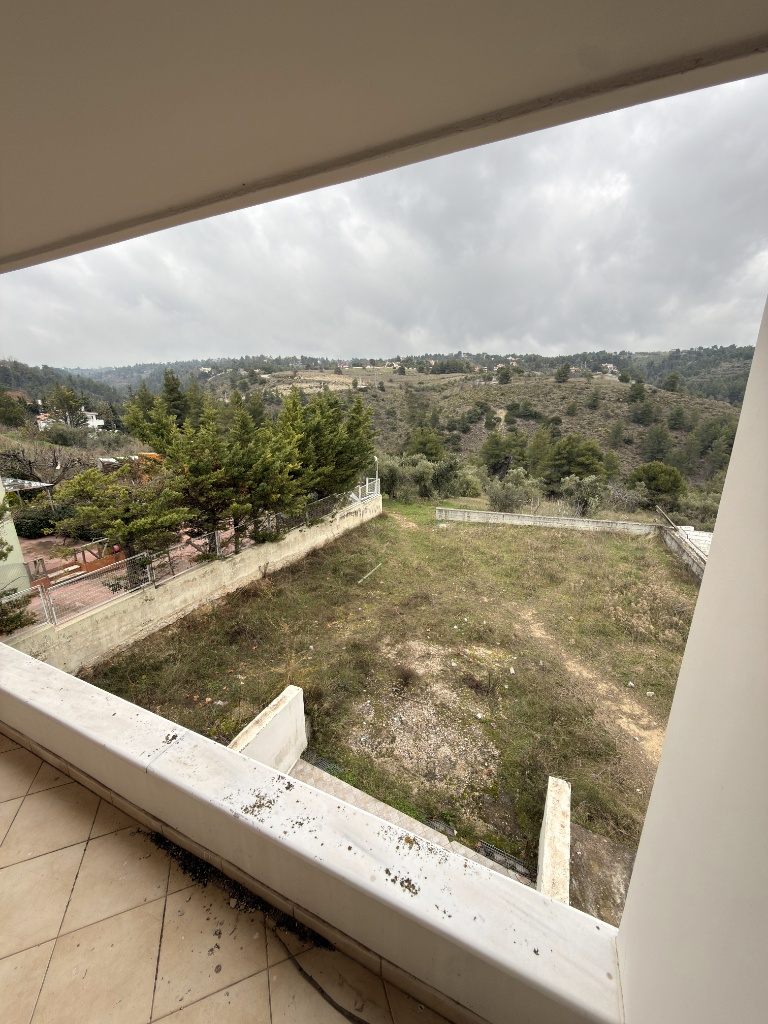
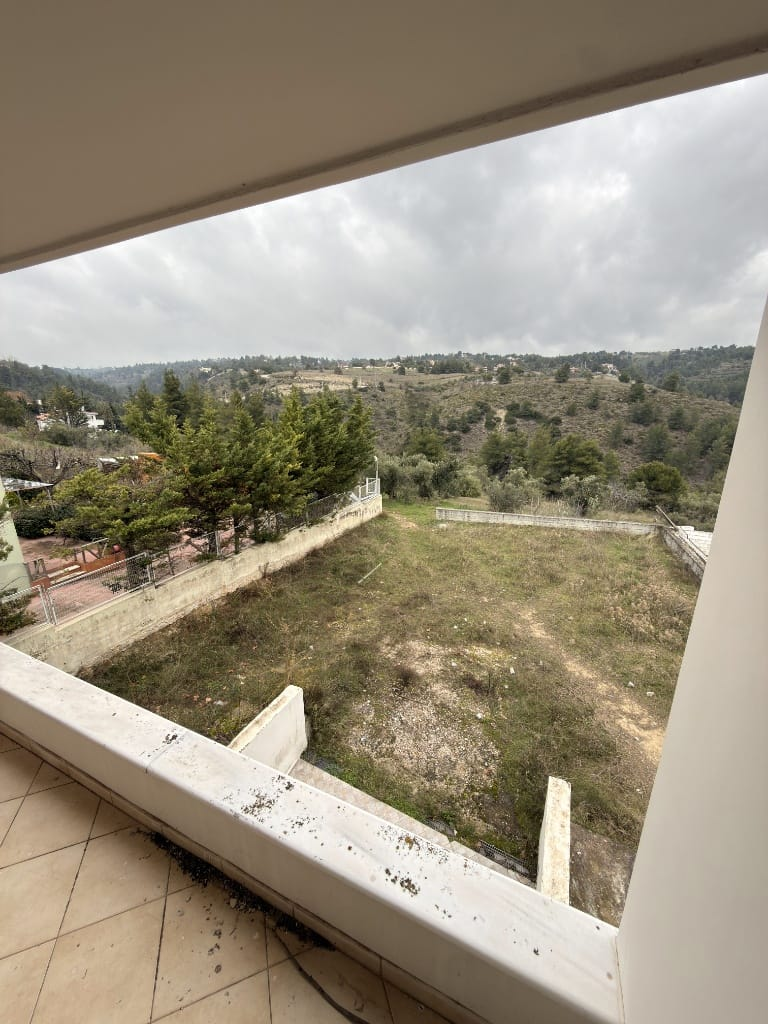
perf: optimize image loading with sizes attributes and lazy loading

Changed region(s): [[0.5938, 0.75, 0.625, 0.7812]]

diff --git a/components/listing/BeforeAfterSection.tsx b/components/listing/BeforeAfterSection.tsx
@@ -1,12 +1,10 @@
 "use client"
 
-import { useState } from "react"
 import { motion } from "framer-motion"
 import Image from "next/image"
 import { Play } from "lucide-react"
 import { Button } from "@/components/ui/button"
 import { BeforeAfterSlider } from "@/components/kapandriti/before-after/BeforeAfterSlider"
-import { PhoneCompareModal } from "@/components/kapandriti/before-after/PhoneCompareModal"
 
 type CompareItem = {
     id: string
@@ -21,13 +19,6 @@ type BeforeAfterSectionProps = {
 }
 
 export function BeforeAfterSection({ compareItems }: BeforeAfterSectionProps) {
-    const [isModalOpen, setIsModalOpen] = useState(false)
-    const [activeItemIndex, setActiveItemIndex] = useState(0)
-
-    const handleOpenModal = (index: number) => {
-        setActiveItemIndex(index)
-        setIsModalOpen(true)
-    }
 
     // If no items, return null or empty
     if (!compareItems || compareItems.length === 0) return null
@@ -81,8 +72,7 @@ export function BeforeAfterSection({ compareItems }: BeforeAfterSectionProps) {
                             className="flex flex-col gap-4 group"
                         >
                             <div
-                                className="relative w-full aspect-[9/16] bg-zinc-900 rounded-[2rem] overflow-hidden border border-zinc-800 shadow-2xl transition-all duration-500 group-hover:border-zinc-600 group-hover:shadow-zinc-900/50 cursor-pointer"
-                                onClick={() => handleOpenModal(index)}
+                                className="relative w-full aspect-[9/16] bg-zinc-900 rounded-[2rem] overflow-hidden border border-zinc-800 shadow-2xl transition-all duration-500 group-hover:border-zinc-600 group-hover:shadow-zinc-900/50"
                             >
                                 <BeforeAfterSlider
                                     beforeSrc={item.beforeSrc}
@@ -105,27 +95,12 @@ export function BeforeAfterSection({ compareItems }: BeforeAfterSectionProps) {
                                 <div className="hidden lg:block absolute inset-x-0 bottom-0 p-6 bg-gradient-to-t from-black/80 via-black/40 to-transparent pointer-events-none">
                                     <h3 className="text-white text-xl font-bold text-center drop-shadow-md">{item.title}</h3>
                                 </div>
-
-                                {/* Hover overlay hints (Desktop only) */}
-                                <div className="hidden lg:flex absolute inset-0 bg-black/40 opacity-0 group-hover:opacity-100 transition-opacity items-center justify-center pointer-events-none">
-                                    <div className="bg-black/60 backdrop-blur-md px-4 py-2 rounded-full border border-white/20 text-white text-sm font-medium">
-                                        Προβολή
-                                    </div>
-                                </div>
                             </div>
                         </motion.div>
                     ))}
                 </div>
 
             </div>
-
-            <PhoneCompareModal
-                isOpen={isModalOpen}
-                onClose={() => setIsModalOpen(false)}
-                items={compareItems}
-                activeIndex={activeItemIndex}
-                onIndexChange={setActiveItemIndex}
-            />
         </section>
     )
 }

diff --git a/app/kapandriti-realestate/page.tsx b/app/kapandriti-realestate/page.tsx
@@ -28,25 +28,25 @@ const COMPARE_ITEMS = [
     id: "yard",
     title: "Πίσω Αυλή",
     beforeSrc: "/kapandriti/before/1.jpg",
-    afterSrc: "/kapandriti/after/1.png",
+    afterSrc: "/kapandriti/after/1.jpg",
   },
   {
     id: "driveway",
     title: "Κεντρική Είσοδος",
     beforeSrc: "/kapandriti/before/2.jpg",
-    afterSrc: "/kapandriti/after/2.png",
+    afterSrc: "/kapandriti/after/2.jpg",
   },
   {
     id: "interior",
     title: "Σαλόνι",
     beforeSrc: "/kapandriti/before/3.jpg",
-    afterSrc: "/kapandriti/after/3.png",
+    afterSrc: "/kapandriti/after/3.jpg",
   },
   {
     id: "garden2",
     title: "Κήπος",
     beforeSrc: "/kapandriti/before/4.jpg",
-    afterSrc: "/kapandriti/after/4.png",
+    afterSrc: "/kapandriti/after/4.jpg",
   },
 ]
 
@@ -78,6 +78,7 @@ export default function KapandritiRealEstatePage() {
             fill
             className="object-cover"
             priority
+            sizes="100vw"
             onError={(e) => {
               e.currentTarget.src = "https://images.unsplash.com/photo-1613490493576-7fde63acd811?q=80&w=1600&auto=format&fit=crop"
             }}
@@ -121,26 +122,29 @@ export default function KapandritiRealEstatePage() {
               <div className="grid grid-cols-2 gap-4 h-[500px] rounded-3xl overflow-hidden">
                 <div className="relative h-full bg-gray-100 group overflow-hidden">
                   <Image
-                    src="/kapandriti/after/1.png"
+                    src="/kapandriti/after/1.jpg"
                     alt="Backyard"
                     fill
+                    sizes="(max-width: 768px) 100vw, (max-width: 1200px) 50vw, 33vw"
                     className="object-cover transition-transform duration-700 group-hover:scale-105"
                   />
                 </div>
                 <div className="grid grid-rows-2 gap-4 h-full">
                   <div className="relative h-full bg-gray-100 group overflow-hidden">
                     <Image
-                      src="/kapandriti/after/2.png"
+                      src="/kapandriti/after/2.jpg"
                       alt="Driveway"
                       fill
+                      sizes="(max-width: 768px) 100vw, (max-width: 1200px) 50vw, 33vw"
                       className="object-cover transition-transform duration-700 group-hover:scale-105"
                     />
                   </div>
                   <div className="relative h-full bg-gray-100 group overflow-hidden">
                     <Image
-                      src="/kapandriti/after/3.png"
+                      src="/kapandriti/after/3.jpg"
                       alt="Interior"
                       fill
+                      sizes="(max-width: 768px) 100vw, (max-width: 1200px) 50vw, 33vw"
                       className="object-cover transition-transform duration-700 group-hover:scale-105"
                     />
                   </div>

diff --git a/scripts/optimize-kapandriti-images.js b/scripts/optimize-kapandriti-images.js
@@ -1,0 +1,70 @@
+const sharp = require('sharp');
+const fs = require('fs');
+const path = require('path');
+
+const DIRECTORIES = [
+    'public/kapandriti/after',
+    'public/kapandriti/before'
+];
+
+async function optimizeImages() {
+    for (const dir of DIRECTORIES) {
+        const fullDir = path.join(process.cwd(), dir);
+        if (!fs.existsSync(fullDir)) {
+            console.log(`Directory not found: ${fullDir}`);
+            continue;
+        }
+
+        const files = fs.readdirSync(fullDir);
+
+        for (const file of files) {
+            if (file.match(/\.(png|jpg|jpeg)$/i)) {
+                const filePath = path.join(fullDir, file);
+                const fileName = path.parse(file).name;
+                // Output as jpg for better compression of photos
+                const outPath = path.join(fullDir, `${fileName}.optimized.jpg`);
+
+                console.log(`Optimizing ${file}...`);
+
+                try {
+                    const image = sharp(filePath);
+                    const metadata = await image.metadata();
+
+                    // Resize if too huge (e.g. > 1920 width)
+                    // Since these are vertical (mostly), check width.
+                    // Before/After usually 9:16. Let's limit width to 1080px (plenty for high density mobile or half-desktop)
+                    if (metadata.width > 1200) {
+                        image.resize({ width: 1200 });
+                    }
+
+                    await image
+                        .jpeg({ quality: 80, mozjpeg: true })
+                        .toFile(outPath);
+
+                    // Get stats
+                    const oldStats = fs.statSync(filePath);
+                    const newStats = fs.statSync(outPath);
+
+                    console.log(`Saved ${outPath}`);
+                    console.log(`Size: ${(oldStats.size / 1024 / 1024).toFixed(2)}MB -> ${(newStats.size / 1024 / 1024).toFixed(2)}MB`);
+
+                    // Replace original with optimized version (rename optimized to original name, but enforce .jpg extension)
+                    // We will delete the original file and rename the new one to [name].jpg
+                    // If the original was .png, it is now .jpg. We must account for this in the code.
+
+                    fs.unlinkSync(filePath);
+                    fs.renameSync(outPath, path.join(fullDir, `${fileName}.jpg`));
+
+                    if (path.extname(file).toLowerCase() !== '.jpg') {
+                        console.log(`Converted ${file} to ${fileName}.jpg`);
+                    }
+
+                } catch (err) {
+                    console.error(`Error processing ${file}:`, err);
+                }
+            }
+        }
+    }
+}
+
+optimizeImages();
